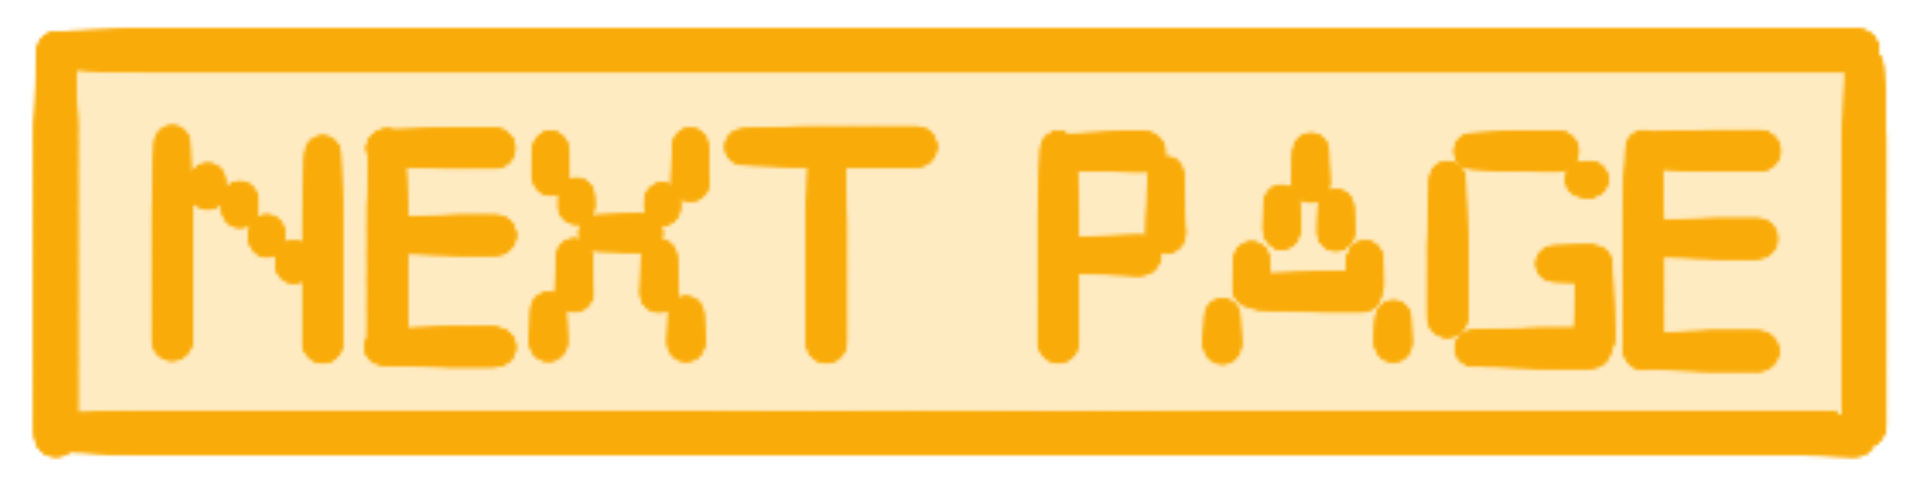
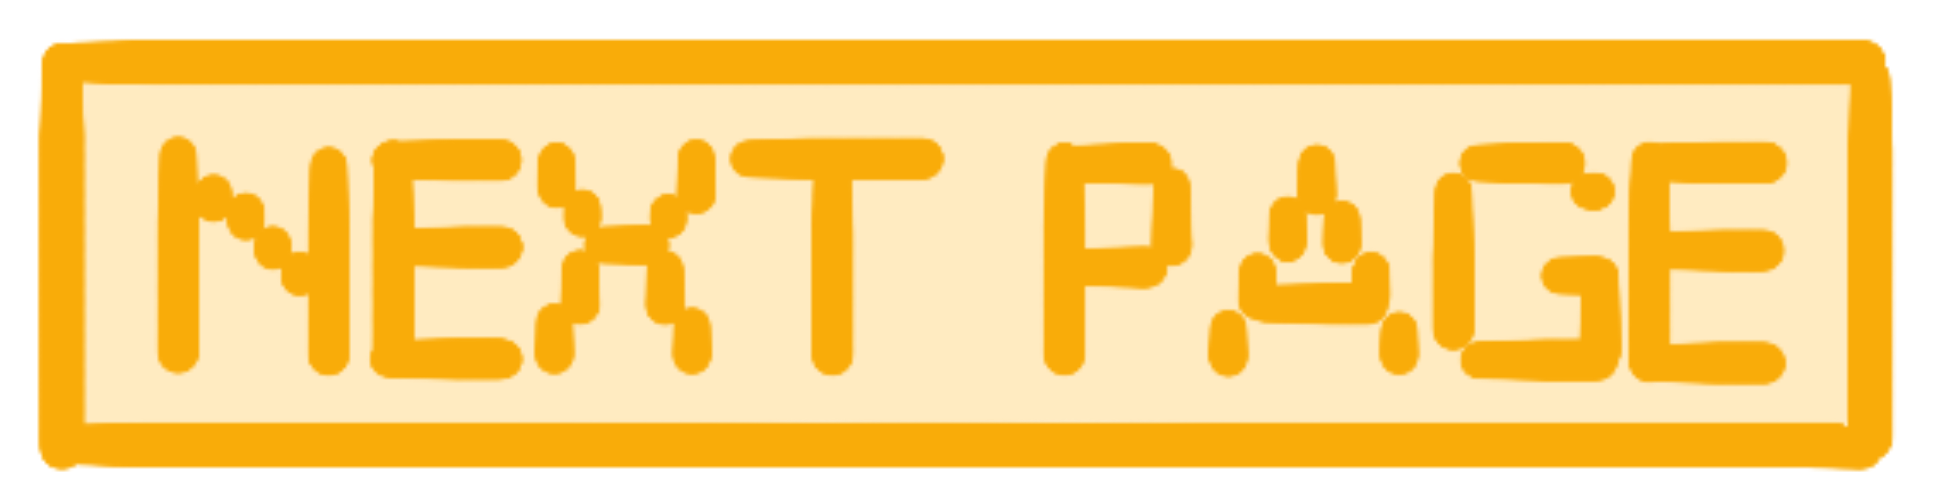
Added red highlight and fixed exit button

Changed region(s): [[0.0, 0.0307, 0.999, 0.9509], [0.4058, 0.7362, 0.437, 0.7669]]

diff --git a/src/main/resources/static/js/adventurequiz.js b/src/main/resources/static/js/adventurequiz.js
@@ -109,7 +109,7 @@ function loadWelcomePage() {
             <li>So, you need to read the article very carefully to do well in your quizzes and to answer them correctly. If you do well in your quizzes you stand a chance to win an achievement badge. We love badges and so will you. That’s SUPERCOOL!!! </li>
             <li>After you do your quizzes there will be some sections where you get to play games too. You can not play the games directly from the games section as Games will be unlocked only when you finish reading the article and the quiz.</li>
          </ul>
-         <p>Just to make you familiar with the functionality of scroll lock there is a training quiz right after this content. You will get an achievement badge if you answer correctly.</p>
+         <p>Just to make you familiar with the functionality of scroll lock there is a training quiz right after this content.</p>
          <p>Are you READYYYYYYYYYYYYYYYYYYYY??????</p>
        </div>
      </div>
@@ -119,7 +119,7 @@ function loadWelcomePage() {
    $('.welcome_quiz_section').append(`
 
      <div class="full-block col-md-12">
-       <div class="quiz-title"><h3>TRAINING QUIZ</h3></div>
+       <div class="quiz-title"><h2><span class="header-span-green">TRAINING QUIZ</span></h2></div>
      </div>
 
 
@@ -284,6 +284,10 @@ function buildSection(sectionDTOList) {
       //Check for tags in the content and format accordingly
       sectionText = sectionText.replace(/<fun>/g, "<div class='content-fun-fact'>");
       sectionText = sectionText.replace(/<\/fun>/g, "<div class='content-fun-fact-image'><img src='" + randomImage + "'></div></div>");
+
+      sectionText = sectionText.replace(/<highlight>/g, "<span class='span-red'>");
+      sectionText = sectionText.replace(/<\/highlight>/g, "</div>");
+
       sectionText = sectionText.replace(/\\n/g, "</br></br>");
       sectionText = sectionText.replace(/\n/g, "</br></br>");
 
@@ -358,7 +362,7 @@ function buildSection(sectionDTOList) {
 
             <div class="no-game-next-button col-md-12">
                <button type="submit" class="quiz-next" onClick="nextQuiz(` + (articleId + 1) + `)">
-                  <image src="` + staticAssetsURL + `images/button/Nextpage.png">
+                  <image src="` + staticAssetsURL + `images/button/Bold-nextpage.png">
                </button>
             </div>
 
@@ -520,13 +524,13 @@ function checkQuizAnswer() {
 
                <div class="play-button-col col-md-6">
                    <button type="submit" class="play-button" onClick="startReward(` + articleId + `)">
-                     <image src="` + staticAssetsURL + `images/button/Playgame.png">
+                     <image src="` + staticAssetsURL + `images/button/Bold-playgame.png">
                    </button>
                </div>
 
                <div class="next-button-col col-md-6">
                    <button type="submit" class="quiz-next" onClick="nextQuiz(` + (articleId + 1) + `)">
-                     <image src="` + staticAssetsURL + `images/button/Nextpage.png">
+                     <image src="` + staticAssetsURL + `images/button/Bold-nextpage.png">
                    </button>
                </div>
 
@@ -540,7 +544,7 @@ function checkQuizAnswer() {
 
             <div class="no-game-next-button col-md-12">
                <button type="submit" class="quiz-next" onClick="nextQuiz(` + (articleId + 1) + `)">
-                 <image src="` + staticAssetsURL + `images/button/Nextpage.png">
+                 <image src="` + staticAssetsURL + `images/button/Bold-nextpage.png">
                </button>
             </div>
 

diff --git a/src/main/resources/static/css/adventurequiz.css b/src/main/resources/static/css/adventurequiz.css
@@ -199,12 +199,12 @@ iframe {
     box-shadow: 0px 0px 0px transparent;
     border: 0px solid transparent;
     text-shadow: 0px 0px 0px transparent;
-    margin: 0px auto 50px auto;
+    margin: 50px auto 50px auto;
     cursor: pointer;
 }
 
 .start-journey img {
-    width: 200px;
+    width: 300px;
 }
 
 .end-journey {
@@ -214,11 +214,11 @@ iframe {
     box-shadow: 0px 0px 0px transparent;
     border: 0px solid transparent;
     text-shadow: 0px 0px 0px transparent;
-    margin: 0px auto 50px auto;
+    margin: 50px auto 50px auto;
 }
 
 .end-journey img {
-    width: 200px;
+    width: 300px;
 }
 
 .play-button {

diff --git a/src/main/resources/static/js/suziestoosies.js b/src/main/resources/static/js/suziestoosies.js
@@ -648,7 +648,11 @@ function checkSolution() {
         //Enable tile blocks
         $('.tile-block').css('pointer-events', 'none');
 
-        //TODO: Highlight finished critical path with .green-highlight
+        //Hide exit button before time delayed ending
+        $('.exit-game').hide();
+
+        //TODO: Add You won text!
+
         setTimeout(function() {
           pipeWinGame();
         }, 5000);
@@ -718,8 +722,6 @@ function pipeEndGame() {
 
   //Stop Timer
   clearInterval(pipeLevelTimer);
-
-  $('.exit-game').hide();
 
   //Game lost: No score
   var result = {

diff --git a/src/main/resources/templates/index.html b/src/main/resources/templates/index.html
@@ -65,7 +65,7 @@
       <section class="heading">
         <div class="row">
           <div class="col-12 title-block">
-            <h1>The Oceanus Project</h1>
+            <h1>Oceanus Project</h1>
           </div>
         </div>
       </section>

diff --git a/src/main/resources/static/css/ending.css b/src/main/resources/static/css/ending.css
@@ -13,5 +13,5 @@
 }
 
 .profile-page-button img {
-    width: 200px;
+    width: 250px;
 }

diff --git a/src/main/java/oceanusproject/demov1/security/SecurityConfig.java b/src/main/java/oceanusproject/demov1/security/SecurityConfig.java
@@ -27,7 +27,7 @@ public class SecurityConfig extends WebSecurityConfigurerAdapter {
     @Override
     protected void configure(HttpSecurity http) throws Exception {
         // Comment this line when you test on local
-        http.requiresChannel().anyRequest().requiresSecure();
+        //http.requiresChannel().anyRequest().requiresSecure();
 
         //http.csrf().disable();
         http
